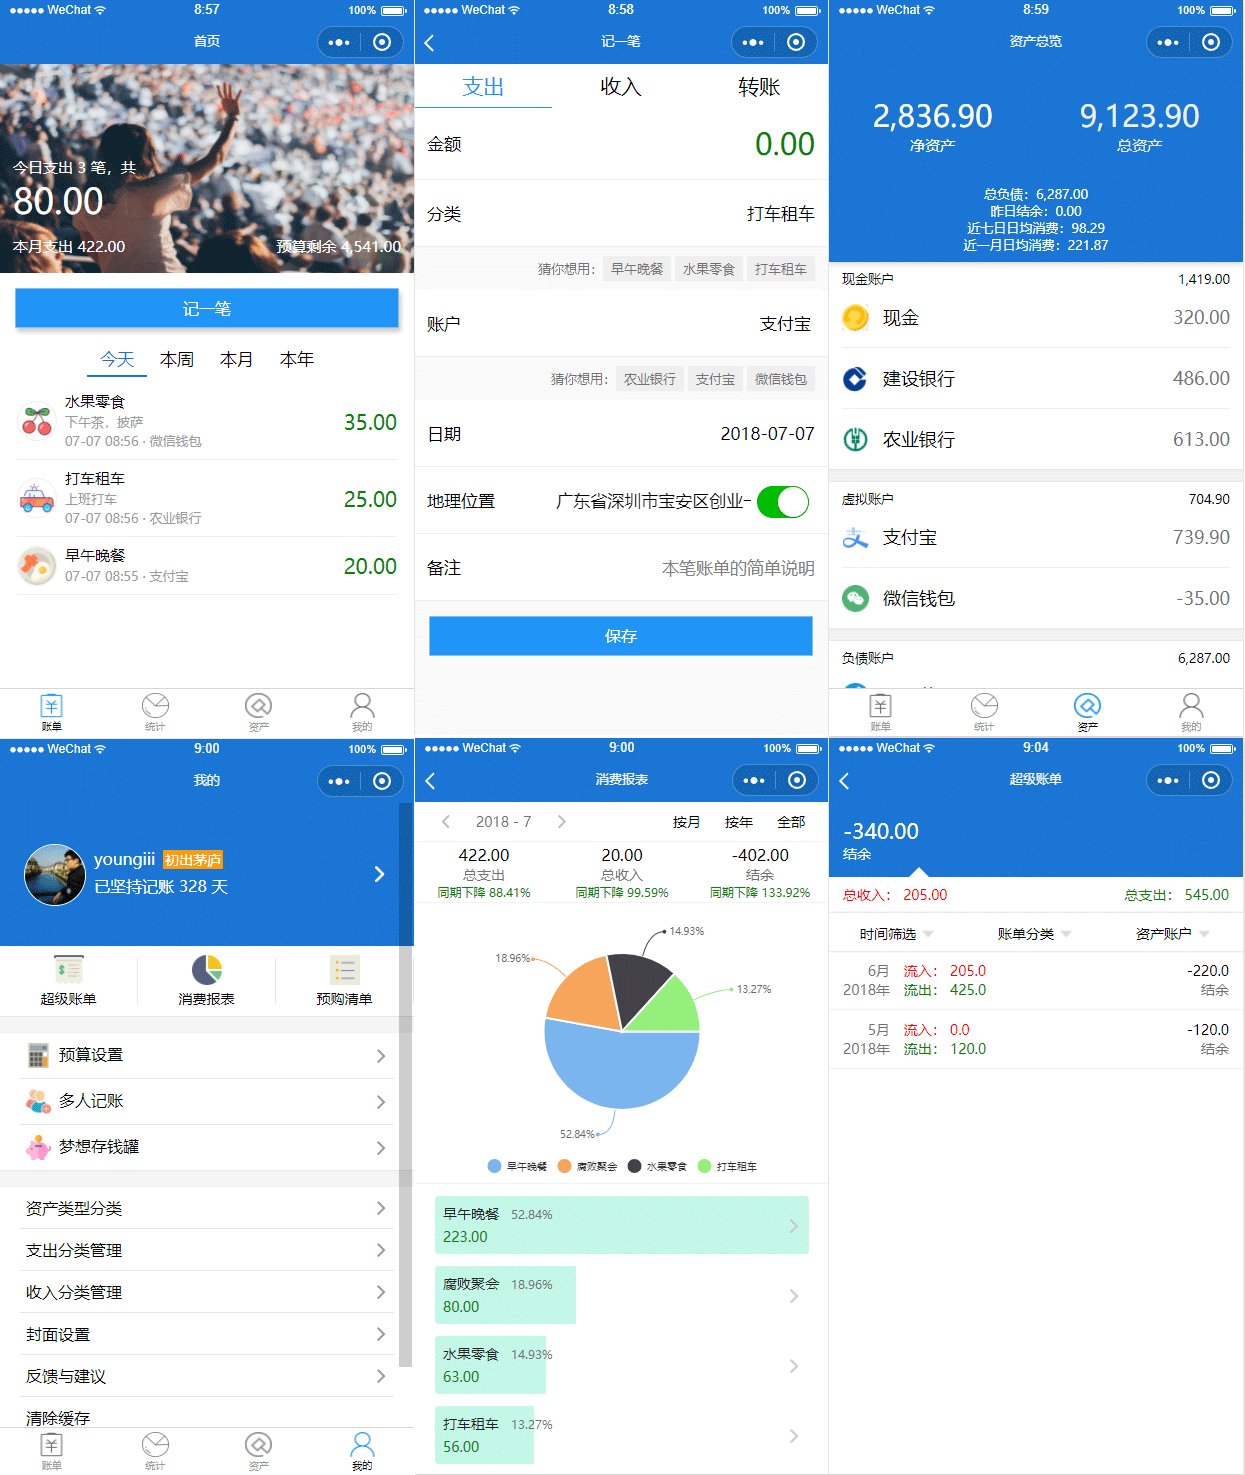
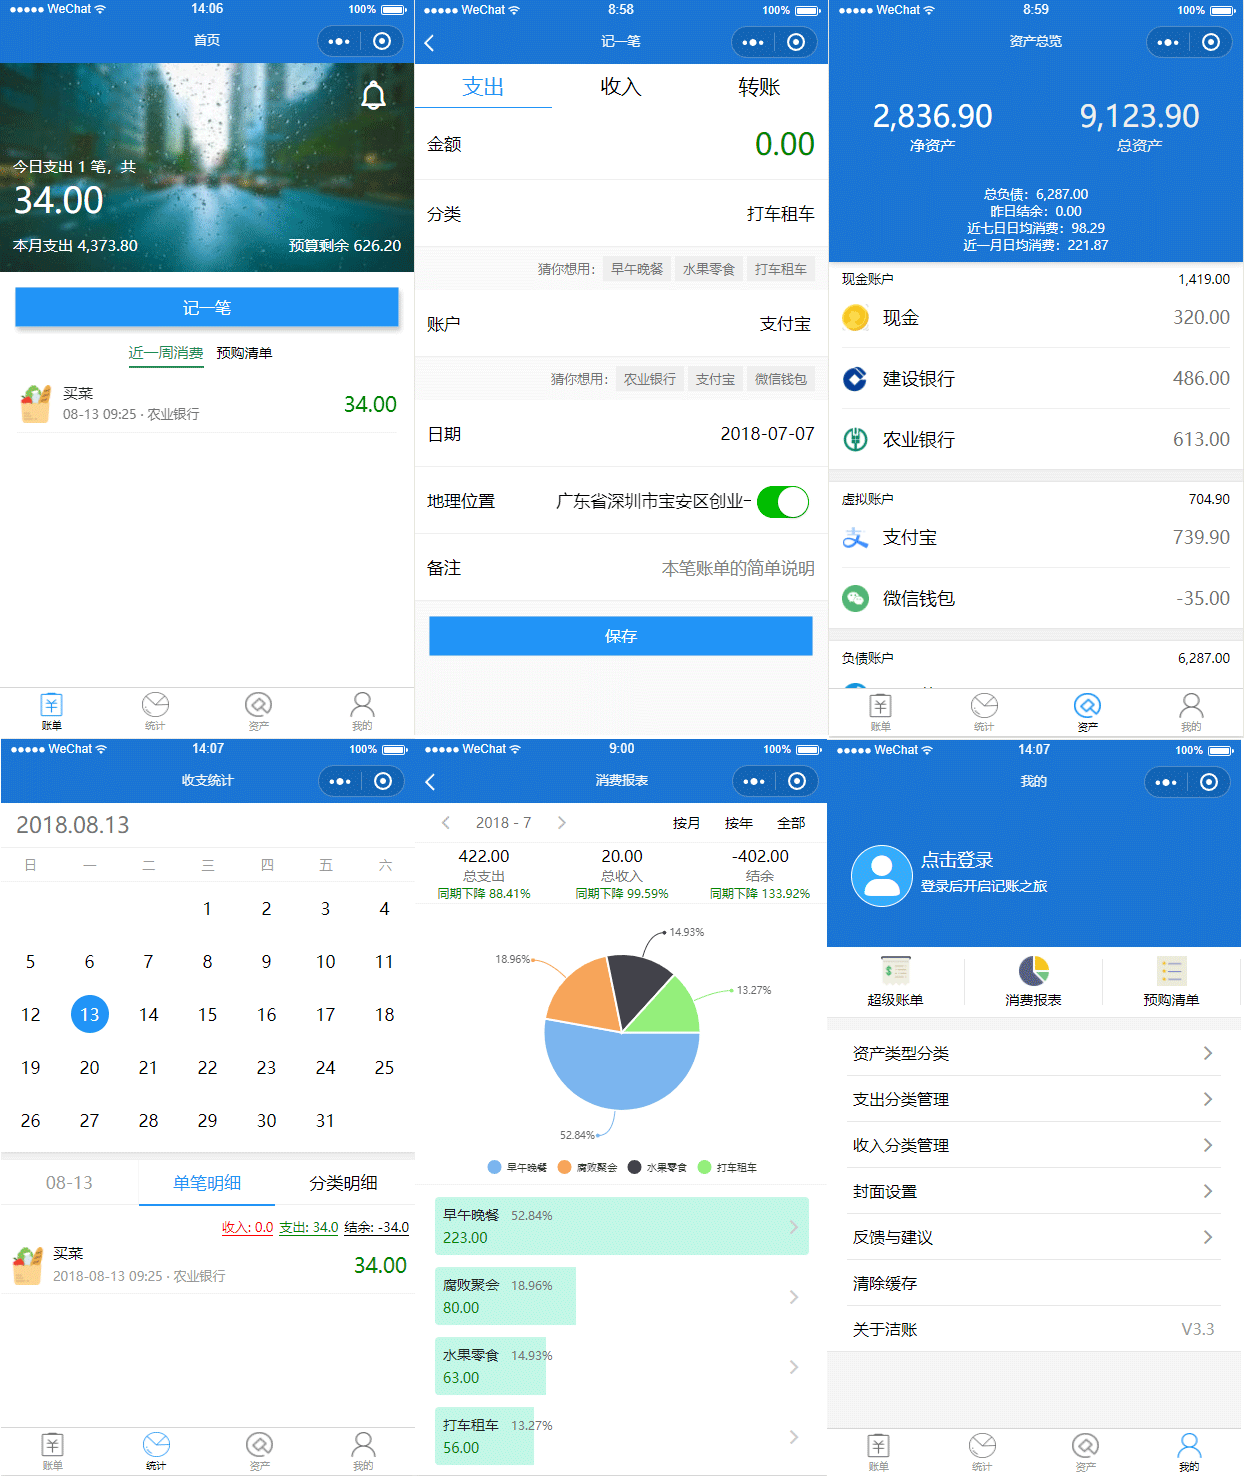
chore: version v3.6.0

diff --git a/CHANGELOG.md b/CHANGELOG.md
@@ -1,4 +1,12 @@
-### V3.4
+### V3.6.0
++ 首页调整为只显示近一周的消费和预购清单
++ 新增预购清单，可以方便记录需要购买的商品
++ 封面图改为存储在本地
++ 修复封面图的设置BUG
++ 修复统计页面显示的BUG
++ 消费报表增加每月收支曲线图
+
+### V3.4.0
 + 修复支出/收入分类无法显示图标的bug
 + 更换底部栏的图标，更容易知道自己当前在哪个Tab下
 + 记一笔界面增加获取地理位置选项
@@ -9,7 +17,3 @@
 + 新增封面设置界面
 + 新增账单详情界面
 + 新增 iconfont 字体图标
-
-### V3.3
-+ 修复记一笔样式错位的bug
-+ 增加退出登录的功能
